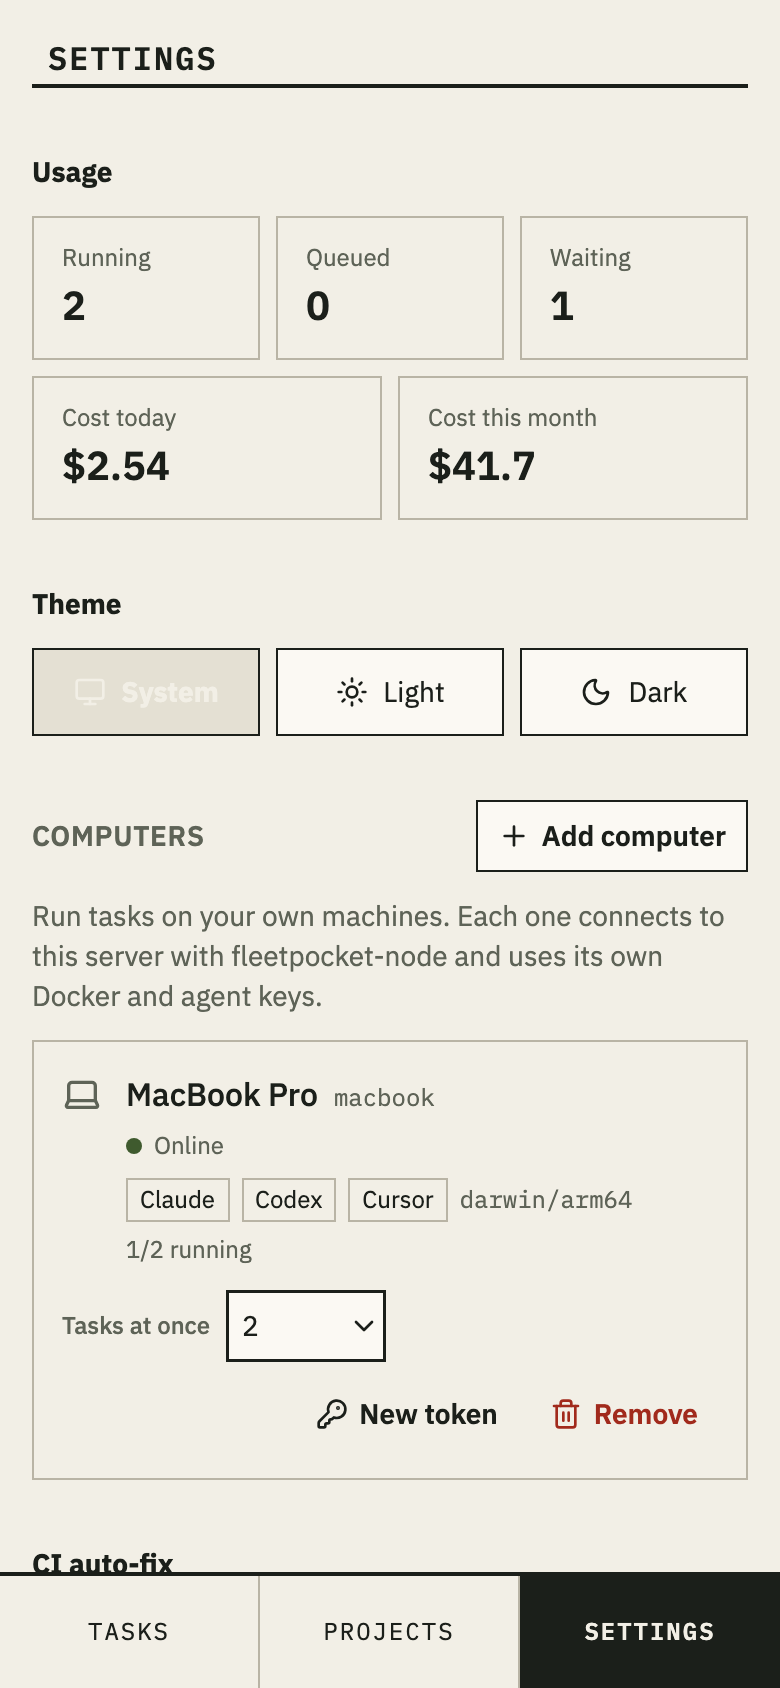
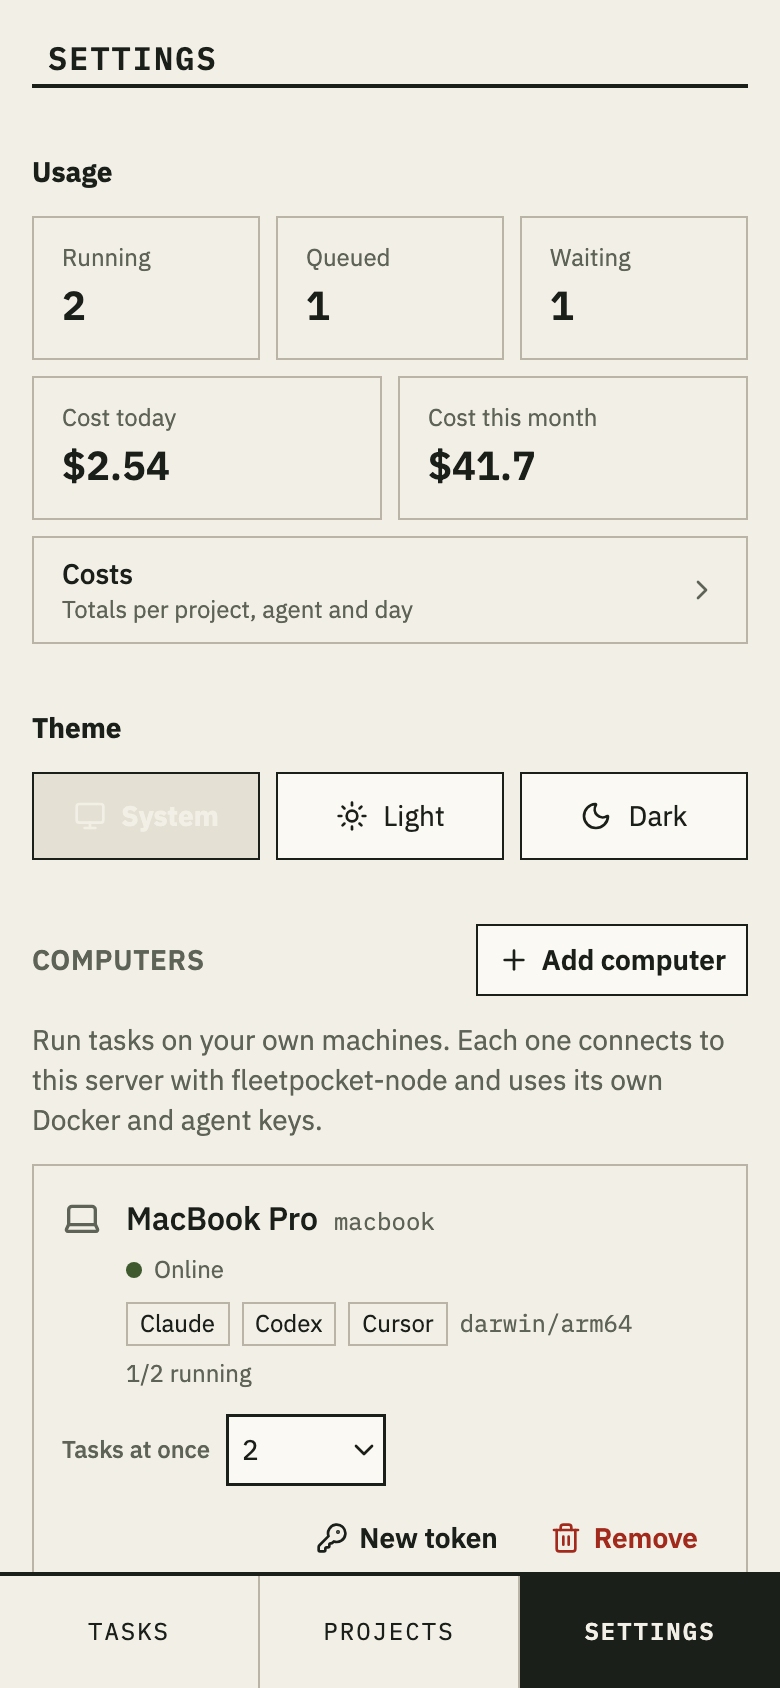
docs: Costs screen screenshot and refreshed screens with costs

diff --git a/web/e2e/screenshots/screenshots.spec.ts b/web/e2e/screenshots/screenshots.spec.ts
@@ -116,6 +116,15 @@ test.describe('screens', () => {
     await shot(page, 'integrations')
   })
 
+  test('costs', async ({ page }) => {
+    test.skip(isDesktop())
+    await open(page, '/')
+    await login(page)
+    await page.goto('/costs')
+    await expect(page.getByRole('heading', { name: 'By project' })).toBeVisible()
+    await shot(page, 'costs')
+  })
+
   test('new task', async ({ page }) => {
     test.skip(isDesktop())
     await open(page, '/')
